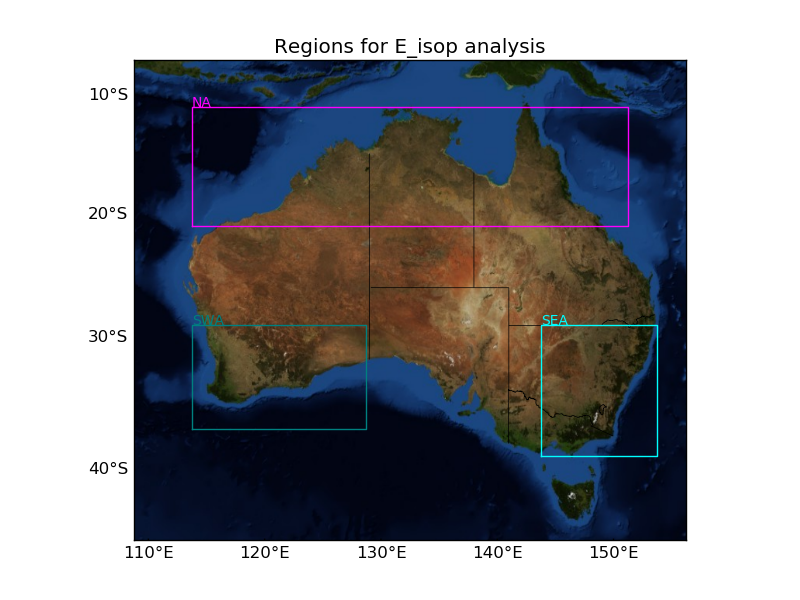
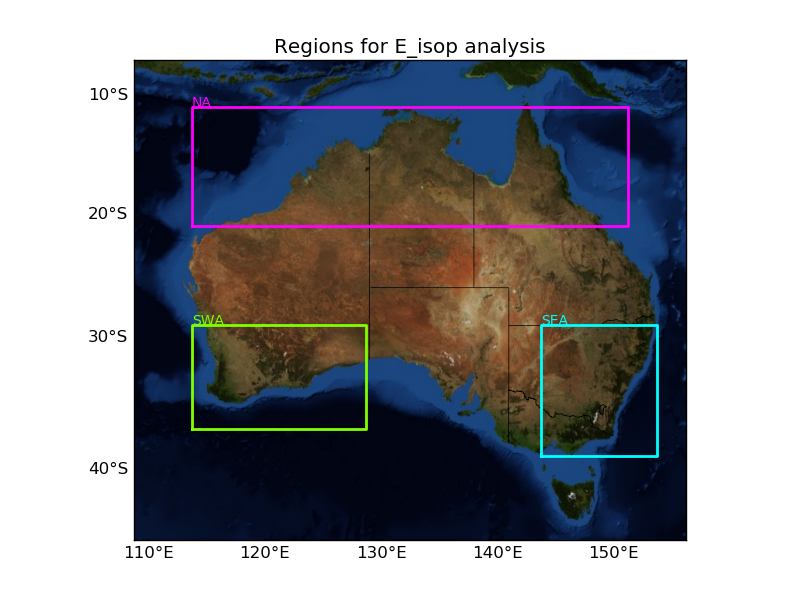
updated regionmap

diff --git a/utilities/plotting.py b/utilities/plotting.py
@@ -149,12 +149,13 @@ def createmap(data, lats, lons, edges=False,
     '''
         Pass in data[lat,lon], lats[lat], lons[lon]
     '''
-    if __VERBOSE__:
-        print("createmap called: %s"%str(title))
-        #print("Data %s, %d lats and %d lons"%(str(data.shape),len(lats), len(lons)))
 
     # Create a basemap map with region as inputted
     if aus: region=__AUSREGION__
+    if __VERBOSE__:
+        print("createmap called over %s (S,W,N,E)"%str(region))
+        #print("Data %s, %d lats and %d lons"%(str(data.shape),len(lats), len(lons)))
+    
     lllat=region[0]; urlat=region[2]; lllon=region[1]; urlon=region[3]
     m=Basemap(llcrnrlat=lllat, urcrnrlat=urlat, llcrnrlon=lllon, urcrnrlon=urlon,
               resolution='i', projection='merc')
@@ -259,7 +260,8 @@ def createmap(data, lats, lons, edges=False,
     # if no colorbar is wanted then don't return one (can be set externally)
     return m, cs, cb
 
-def plot_swath(day, region=__AUSREGION__, reprocessed=False,
+def plot_swath(day, reprocessed=False,
+              oneday=True, region=__AUSREGION__,
               edges=False , vmin=None, vmax=None,
               aus=False, linear=False, clabel='molec/cm2', colorbar=True,
               cbarfmt=None, cbarxtickrot=None,
@@ -272,7 +274,7 @@ def plot_swath(day, region=__AUSREGION__, reprocessed=False,
 
     #swaths=fio.read_omhcho_day(day)
     dkey=['VC_OMI_RSC','VCC'][reprocessed]
-    swaths=fio.read_omhchorp(day,oneday=True,keylist=[dkey,'latitude','longitude'])
+    swaths=fio.read_omhchorp(day,oneday=oneday,keylist=[dkey,'latitude','longitude'])
     data=swaths[dkey]
     lats=swaths['latitude']
     lons=swaths['longitude']
@@ -475,7 +477,8 @@ def add_grid_to_map(m, xy0=(-181.25,-89.), xyres=(2.5,2.), color='k', linewidth=
     m.drawmeridians(y, color=color, linewidth=linewidth, dashes=dashes, labels=labels)
     #drawmeridians(meridians, color=’k’, linewidth=1.0, zorder=None, dashes=[1, 1], labels=[0, 0, 0, 0], labelstyle=None, fmt=’%g’, xoffset=None, yoffset=None, ax=None, latmax=None, **kwargs)
 
-def displaymap(region=__AUSREGION__, subregions=[], labels=[], colors=[],
+def displaymap(region=__AUSREGION__,
+               subregions=[], labels=[], colors=[], linewidths=[],
                fontsize='small', bluemarble=True,drawstates=True):
     '''
         regions are [lat,lon,lat,lon]
@@ -492,13 +495,19 @@ def displaymap(region=__AUSREGION__, subregions=[], labels=[], colors=[],
 
     # Add lats/lons to map
     add_grid_to_map(m,xy0=(-10,-80),xyres=(10,10),dashes=[1,1e6],labels=[1,0,0,1])
-
+    for r in subregions:
+        if len(labels)<len(r):
+            labels.append('')
+        if len(colors)<len(r):
+            colors.append('k')
+        if len(linewidths)<len(r):
+            linewidths.append(1)
     # add subregions and little lables:
-    for r,l,c in zip(subregions, labels,colors):
-        plot_rec(m,r,color=c)
+    for r,l,c,lw in zip(subregions, labels, colors, linewidths):
+        plot_rec(m,r,color=c, linewidth=lw)
         lon,lat=r[1],r[2]
         x,y = m(lon,lat)
-        plt.text(x+100,y-100,l,fontsize=fontsize,color=c)
+        plt.text(x+100,y-130,l,fontsize=fontsize,color=c)
 
     return m
 
@@ -506,4 +515,14 @@ def displaymap(region=__AUSREGION__, subregions=[], labels=[], colors=[],
 
 if __name__=='__main__':
     from datetime import datetime
-    plot_swath(datetime(2005,1,20),title="neg_swath",pname="Figs/Checks/neg_swath.png")
+    print('plotting called!')
+    plt.figure()
+    plt.subplot(121)
+    plot_swath(datetime(2005,1,9),title="2005, Jan, 9",
+               cmapname='inferno',linear=True)
+    print('half done')
+    plt.subplot(122)
+    plot_swath(datetime(2005,1,9),title="Eight Days", oneday=False,
+               pname="Figs/Checks/example_swaths.png",
+               cmapname='inferno', linear=True)
+    print('done')

diff --git a/Analyse_E_isop.py b/Analyse_E_isop.py
@@ -84,7 +84,8 @@ def E_new_time_series(d0=datetime(2005,1,1),dn=datetime(2005,12,1),
     print(NA,SWA,SEA)
     subs   = [SWA,NA,SEA]
     labels = ['SWA','NA','SEA']
-    colors = ['teal','magenta','aqua']
+    colors = ['chartreuse','magenta','aqua']
+    linewidths=[2,2,2]
 
     # Draw them if you want
     if drawmap:
@@ -92,7 +93,7 @@ def E_new_time_series(d0=datetime(2005,1,1),dn=datetime(2005,12,1),
         region=pp.__AUSREGION__
 
         pp.displaymap(region=region, subregions=subs,
-                      labels=labels,colors=colors)
+                      labels=labels, linewidths=linewidths, colors=colors)
 
         regionname='Figs/regionmap.png'
         plt.title("Regions for E_isop analysis")
